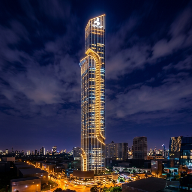
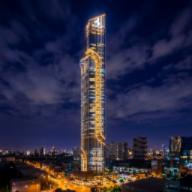
Add files via upload

diff --git a/index.html b/index.html
@@ -1,8 +1,9 @@
-<html lang="ar" dir="rtl"><head>
+<html lang="ar" dir="rtl">
+<head>
     <meta charset="UTF-8">
-    <meta name="viewport" content="width=device-width, initial-scale=0.3">
-    <title>  الشاملة</title>
-    <link href="https://fonts.googleapis.com/css2?family=Cairo:wght@400;600;800&amp;display=swap" rel="stylesheet">
+    <meta name="viewport" content="width=device-width, initial-scale=0.2">
+    <title>.</title>
+    <link href="https://fonts.googleapis.com/css2?family=Cairo:wght@400;600;800&display=swap" rel="stylesheet">
     <style>
         :root {
             --primary: #6c5ce7;
@@ -23,6 +24,7 @@
             --numerology: #9b59b6; 
             --ascendant: #f1c40f; 
             --name-color: #e67e22; 
+            --chart-box: #1abc9c;
         }
 
         body {
@@ -249,7 +251,7 @@
             margin: 0;
             font-size: 1.05em;
             color: #ecf0f1;
-            white-space: pre-line; /* عشان يتعرف على السطور الجديدة في الشرح المكثف */
+            white-space: pre-line;
         }
 
         .pros { border-color: var(--success); }
@@ -259,6 +261,7 @@
         .numerology-box { border-color: var(--numerology); background: rgba(155, 89, 182, 0.05); }
         .ascendant-box { border-color: var(--ascendant); background: rgba(241, 196, 15, 0.05); }
         .name-box { border-color: var(--name-color); background: rgba(230, 126, 34, 0.05); }
+        .chart-box { border-color: var(--chart-box); background: rgba(26, 188, 156, 0.05); }
         .love { border-color: var(--love); }
         .work { border-color: var(--work); }
         .compat-box { border-color: var(--compat); background: rgba(0, 184, 148, 0.05); }
@@ -266,39 +269,73 @@
         .celebs-box { border-color: var(--celebs); background: rgba(232, 67, 147, 0.05); }
         .advice-box { border-color: var(--advice); background: rgba(9, 132, 227, 0.05); }
 
+        /* ستايل العجلة الفلكية المبسطة */
+        .astrology-wheel-container {
+            display: flex;
+            justify-content: center;
+            align-items: center;
+            margin: 20px 0;
+            padding: 20px;
+            background: rgba(0,0,0,0.5);
+            border-radius: 50%;
+            width: 300px;
+            height: 300px;
+            margin-left: auto;
+            margin-right: auto;
+            border: 4px solid var(--accent);
+            position: relative;
+            box-shadow: 0 0 20px rgba(253, 203, 110, 0.3);
+        }
+
+        .wheel-center {
+            position: absolute;
+            width: 100px;
+            height: 100px;
+            background: rgba(255,255,255,0.1);
+            border-radius: 50%;
+            border: 2px dashed #b2bec3;
+            display: flex;
+            justify-content: center;
+            align-items: center;
+            font-size: 0.8em;
+            text-align: center;
+            color: #fff;
+        }
+
+        .planet-marker {
+            position: absolute;
+            font-size: 1.5em;
+            font-weight: bold;
+            background: rgba(0,0,0,0.7);
+            padding: 5px 10px;
+            border-radius: 10px;
+            border: 1px solid;
+            transition: all 0.5s ease;
+            z-index: 10;
+        }
+
+        .sun-marker { color: #f1c40f; border-color: #f1c40f; }
+        .moon-marker { color: #74b9ff; border-color: #74b9ff; }
+        .asc-marker { color: #e74c3c; border-color: #e74c3c; font-size: 1em; }
+
         @media (max-width: 600px) {
             .form-row { flex-direction: column; gap: 0; }
             .tabs { flex-direction: column; }
+            .astrology-wheel-container { width: 250px; height: 250px; }
         }
     </style>
 
-    <link rel="manifest" href="./manifest.json">
-    <meta name="theme-color" content="#051a14">
-    <link rel="apple-touch-icon" href="./icon-192.png">
+    <meta http-equiv="Cache-Control" content="no-cache, no-store, must-revalidate">
+    <meta http-equiv="Pragma" content="no-cache">
+    <meta http-equiv="Expires" content="0">
+    <link rel="manifest" href="./manifest.json?v=v1785047711247">
+    <meta name="theme-color" content="#632484">
+    <link rel="apple-touch-icon" href="./icon-192.png?v=v1785047711247">
     <script>
       if ('serviceWorker' in navigator) {
         window.addEventListener('load', () => {
-          navigator.serviceWorker.register('./sw.js?v=2826323981783690094062')
-            .then(reg => {
-              console.log('SW Registered');
-              reg.update();
-            })
-            .catch(err => console.log('SW Failed', err));
-        });
-      }
-    </script>
-
-    <link rel="manifest" href="./manifest.json">
-    <meta name="theme-color" content="#000000">
-    <link rel="apple-touch-icon" href="./icon-192.png">
-    <script>
-      if ('serviceWorker' in navigator) {
-        window.addEventListener('load', () => {
-          navigator.serviceWorker.register('./sw.js?v=8825606461784250173281')
-            .then(reg => {
-              console.log('SW Registered');
-              reg.update();
-            })
+          navigator.serviceWorker.register('./sw.js?v=v1785047711247')
+            .then(reg => console.log('SW Registered'))
             .catch(err => console.log('SW Failed', err));
         });
       }
@@ -308,7 +345,7 @@
 
     <div class="container">
         <h1>✨FOR FUN الخريطة الفلكية الشاملة ✨</h1>
-        <div class="subtitle">دليلك الكامل لمعرفة أسرار وشخصيات الأبراج شامل الطالع، علم الأرقام، وتحليل طاقة الاسم بدقة متناهية</div>
+        <div class="subtitle">دليلك الكامل لمعرفة أسرار وشخصيات الأبراج شامل الطالع، الخريطة الدائرية، وعلم الأرقام بدقة متناهية</div>
         
         <div class="tabs">
             <button class="tab-btn active" onclick="switchTab('personal')">حاسبة الأبراج الشخصية</button>
@@ -338,7 +375,7 @@
                     <input type="text" id="birthdate" placeholder="مثال: 25/08/1995" dir="ltr" style="text-align: right;" required="">
                 </div>
                 <div class="form-group">
-                    <label for="birthtime">ساعة الولادة <span class="optional-badge">مهمة لحساب الطالع</span></label>
+                    <label for="birthtime">ساعة الولادة <span class="optional-badge">مهمة لحساب الطالع والخريطة</span></label>
                     <input type="text" id="birthtime" placeholder="مثال: 14:30" dir="ltr" style="text-align: right;" title="عشان نحسب الطالع بدقة لازم تكتب الساعة">
                 </div>
             </div>
@@ -410,6 +447,45 @@
                 <div class="badges-container">
                     <div class="badge" id="zElement"></div>
                     <div class="badge" id="zPlanet"></div>
+                </div>
+            </div>
+
+            <!-- شكل الخريطة الدائرية والشرح المفصل (جديد) -->
+            <div class="info-box chart-box" id="visualChartBox">
+                <h3>🌌 رسم خريطتك الفلكية (أماكن الكواكب):</h3>
+                <p>الدايرة دي بتوضح أماكن أهم 3 نقط في شخصيتك (الشمس، القمر، والطالع) وقت ولادتك بالظبط:</p>
+                
+                <div class="astrology-wheel-container" id="wheelContainer">
+                    <div class="wheel-center">خريطة<br>السماء</div>
+                    <div id="sunMarker" class="planet-marker sun-marker" title="البرج الشمسي">☀</div>
+                    <div id="moonMarker" class="planet-marker moon-marker" title="البرج القمري">🌙</div>
+                    <div id="ascMarker" class="planet-marker asc-marker" title="الطالع">🌅</div>
+                </div>
+                
+                <div style="margin-top: 15px; padding-top: 15px; border-top: 1px dashed rgba(255,255,255,0.2);">
+                    <strong style="color: var(--accent); font-size: 1.2em;">إزاي تقرأ الخريطة اللي في الصورة؟ (شرح مبسط جداً)</strong><br><br>
+                    بص يا سيدي، الخريطة الفلكية اللي بتشوفها عبارة عن دايرة مليانة رموز زي الصورة بالظبط، دي ببساطة "سكرين شوت" لشكل السما وقت وتاريخ ومكان ولادتك بالمللي. تعال افصصهالك بالعامية عشان تبقى خبير:<br><br>
+                    
+                    <strong>1. الدايرة الكبيرة (البيوت الفلكية 🏠):</strong><br>
+                    الدايرة متقسمة لـ 12 حتة زي حتت البيتزا، كل حتة اسمها "بيت". كل بيت بيمثل جانب في حياتك (البيت الـ 1: شخصيتك ومظهرك، البيت الـ 2: فلوسك، البيت الـ 4: عيلتك، البيت الـ 7: الجواز والشراكة، البيت الـ 10: شغلك وسمعتك). الكوكب اللي بيقع في بيت معين بيدي طاقته للجانب ده من حياتك.<br><br>
+
+                    <strong>2. الرموز اللي جوه الدايرة (الكواكب 🪐):</strong><br>
+                    دي الممثلين اللي بيلعبوا أدوار جوه دماغك:<br>
+                    • ☀ <strong>الشمس:</strong> دي هويتك الأساسية وغرورك (برجك العادي).<br>
+                    • 🌙 <strong>القمر:</strong> ده مشاعرك، رد فعلك الداخلي، وإزاي بتحب وتزعل.<br>
+                    • 🌅 <strong>الطالع (AC):</strong> ده الماسك اللي بتلبسه للناس، وانطباعهم الأول عنك.<br>
+                    • ♀ <strong>الزهرة (Venus):</strong> ده كوكب الحب، الجمال، والفلوس، بيحدد إنت بتحب إزاي وذوقك إيه.<br>
+                    • ♂ <strong>المريخ (Mars):</strong> ده كوكب الأكشن، الغضب، والطاقة، بيحدد إزاي بتاخد حقك وتتخانق.<br>
+                    • ☿ <strong>عطارد (Mercury):</strong> ده كوكب العقل، التواصل، وإزاي بتفكر وتتكلم.<br>
+                    • ♃ <strong>المشتري (Jupiter):</strong> كوكب الحظ والتفاؤل والتوسع.<br>
+                    • ♄ <strong>زحل (Saturn):</strong> كوكب الكارما، الدروس القاسية، والمسؤولية.<br><br>
+
+                    <strong>3. الخطوط الحمرا والزرقا في النص (الاتصالات 🔗):</strong><br>
+                    شايف الشبكة اللي في نص الدايرة؟ دي عبارة عن زوايا هندسية بين الكواكب وبعضها (بتكلموا بعض إزاي):<br>
+                    • <strong>الخطوط الزرقا أو الخضرا 🔵:</strong> دي "اتصالات إيجابية" (تثليث أو تسديس). معناها إن الكوكبين دول متصالحين وبيدعموا بعض، يعني حظ حلو ومواهب فطرية عندك.<br>
+                    • <strong>الخطوط الحمرا 🔴:</strong> دي "اتصالات صعبة" (تربيع أو مقابلة). معناها إن في خناقة بين الكوكبين دول، ودي بتمثل التحديات، العقد النفسية، أو الصعوبات اللي محتاج تبذل مجهود عشان تتخطاها في حياتك وتطور من نفسك.<br><br>
+                    
+                    <em>الخلاصة:</em> إنت مش مجرد برجك الشمسي (أنا حمل أو أنا ثور)، إنت ميكس من كل الكواكب دي في بيوت مختلفة، وعشان كده مستحيل تلاقي اتنين برج الحمل أو الثور متطابقين 100%!
                 </div>
             </div>
             
@@ -571,7 +647,7 @@
             "البقرة": "برجك الصيني البقرة 🐮: إنت شخص يعتمد عليه بجد، إنت المعنى الحقيقي للثبات والقوة. صبور لأبعد الحدود، مجتهد في شغلك بشكل يفوق طاقة البشر، ومبتهربش أبداً من المسؤولية مهما كانت تقيلة. الناس بتثق فيك لأنك مبتخونش ومبتلفش وتدور. عيبك القاتل إنك عنيد جداً، ولما بتاخد قرار مستحيل ترجع فيه حتى لو عرفت إنه غلط. كمان مبتحبش التغيير المفاجئ وبتحب الروتين اللي بيحسسك بالأمان. في العاطفة، إنت مخلص جداً وعلاقاتك بتدوم لسنين طويلة لأنك بتبنيها على أساس متين.",
             "النمر": "برجك الصيني النمر 🐯: إنت شخص شجاع، مغامر، واثق في نفسك جداً لدرجة ممكن توصل للغرور أحياناً. بتحب التحديات ومبتخافش من المواجهة حتى لو قدام مين. روحك قيادية بالفطرة، والناس بتنجذب لشخصيتك المتمردة والقوية. لكن من الناحية التانية، إنت ممكن تكون متهور جداً وبتاخد ريسك كبير في الفلوس والمشاعر من غير ما تفكر في العواقب. بتكره القيود ومبتحبش حد يقولك تعمل إيه. في الحب، إنت شغوف جداً وعلاقاتك دايماً مليانة أكشن وإثارة، بس بتزهق لو العلاقة بقت مملة.",
             "الأرنب": "برجك الصيني الأرنب 🐰: إنت شخص لطيف، دبلوماسي، وذوقك عالي جداً في كل حاجة بتختارها. بتهرب من المشاكل والصوت العالي والمواجهات، وبتحب تعيش في سلام وهدوء. الناس بترتاحلك جداً لأنك مستمع جيد، حنون، ومبتجرحش حد بكلامك. عندك قدرة تفاوض عبقرية بتخليك توصل للي إنت عايزه بالسياسة والهدوء مش بالخناق. عيبك إنك ممكن تكون متشائم أحياناً أو بتهرب من مسؤولياتك لو حسيت بضغط نفسي. في الحب، إنت رومانسي جداً وبتحتاج شريك يحسسك بالأمان والدلع طول الوقت.",
-            "التنين": "برجك الصيني التنين 🐉: إنت شخص مليان طاقة وحيوية متخلصش! كاريزما طاغية، محظوظ بطبعك، وطموحك ملوش أي سقف. بتحب دايماً تكون في القمة ومحط أنظار الجميع، ومبتقبلش بدور التابع أو الموظف العادي. عندك ثقة بالنفس بتخليك تحقق المستحيل، بس أحياناً بتكون ديكتاتور في رأيك ومبتسمعش نصيحة حد. إنت كريم جداً ومبتتأخرش عن مساعدة اللي حواليك، بس بتطلب منهم ولاء تام في المقابل. في العاطفة، إنت بتدور على شريك قوي يفتخر بيك وتفتخر بيه، وعلاقاتك دايماً استثنائية.",
+            "التنين": "برجك الصيني التنين 🐉: إنت شخص مليان طاقة وحيوية متخلصش! كاريزما طاغية، محظوظ بطبعك، وطموحك ملوش أي سقف. بتحب دايماً تكون في القمة ومحط أنظار الجميع، ومبتقبلش بدور التابع أو الموظف العادي. عندك ثقة بالنفس بتخليك تحقيق المستحيل، بس أحياناً بتكون ديكتاتور في رأيك ومبتسمعش نصيحة حد. إنت كريم جداً ومبتتأخرش عن مساعدة اللي حواليك، بس بتطلب منهم ولاء تام في المقابل. في العاطفة، إنت بتدور على شريك قوي يفتخر بيك وتفتخر بيه، وعلاقاتك دايماً استثنائية.",
             "الثعبان": "برجك الصيني الثعبان 🐍: إنت شخص حكيم، غامض، وذكي جداً لدرجة الدهاء. عندك حاسة سادسة بتخليك تحس بالأمور قبل ما تحصل وتقرأ نوايا اللي حواليك بسهولة. مبتحبش الثرثرة والكلام الكتير، وبتخطط لخطواتك في هدوء وصمت تام لحد ما توصل لهدفك وتفاجئ الكل. بتحب الرفاهية والجمال والفلوس بالنسبة لك وسيلة للعيشة المرتاحة. عيبك إنك شكاك جداً وغيور وتملكي لأبعد الحدود. في الحب، إنت جذاب جداً وساحر، بس لما بترتبط بحد بتقفل عليه ومش بتسمح لأي حد يقرب منه.",
             "الحصان": "برجك الصيني الحصان 🐴: إنت شخص نشيط، حر، ومبتحبش القيود نهائياً كأنك حصان بري منطلق. اجتماعي جداً، روحك خفيفة، وبتعرف تعمل صحاب في أي مكان تروحه بسرعة البرق. عقلك شغال دايماً وعندك أفكار مبتكرة، بس مشكلتك الأكبر إنك بتمل بسرعة رهيبة وبتحتاج تغير روتين حياتك وأهدافك دايماً، وده بيخليك تسيب مشاريع كتير في النص من غير ما تكملها. إنت صريح جداً ومبتعرفش تخبي مشاعرك. في الحب، إنت بتندفع بكل مشاعرك في البداية، بس ممكن تطفش لو حسيت إن الشريك بيخنقك.",
             "العنزة": "برجك الصيني العنزة 🐐: إنت شخص فنان بطبعك، رقيق، عاطفي، وحساس لأقصى درجة. بتحب الجمال، الطبيعة، الهدوء، وبتتجنب الصراعات والمنافسة الشرسة اللي في سوق العمل. عندك خيال واسع ومبدع في أي حاجة بتعملها بإيدك. لكن أحياناً بتحتاج حد يزقك ويدعمك نفسياً ومادياً عشان تطلع أحسن ما عندك، لأنك بتشك في قدراتك كتير. عيبك إنك ممكن تكون اعتمادي على غيرك أو مزاجي جداً ومكتئب بدون أسباب واضحة. في الحب، إنت بتحتاج حنان ورعاية مفرطة، وبترد ده بحب وإخلاص ملهمش مثيل.",
@@ -893,6 +969,28 @@
             return signsList[ascendantIndex];
         }
 
+        // الدالة المسئولة عن رسم الكواكب على العجلة الفلكية المبسطة
+        function placePlanetOnWheel(markerId, signName) {
+            const signsList = ["الحمل", "الثور", "الجوزاء", "السرطان", "الأسد", "العذراء", "الميزان", "العقرب", "القوس", "الجدي", "الدلو", "الحوت"];
+            const index = signsList.indexOf(signName);
+            if (index === -1) return;
+
+            // حساب الزاوية (كل برج بياخد 30 درجة من الدايرة ال 360)
+            // الحمل بيبدأ من اليمين (0 درجة) ويلف عكس عقارب الساعة زيه زي الخريطة الحقيقية
+            const angle = -(index * 30); 
+            const radius = 110; // المسافة من المركز
+
+            const rad = angle * (Math.PI / 180);
+            const x = Math.cos(rad) * radius;
+            const y = Math.sin(rad) * radius;
+
+            const marker = document.getElementById(markerId);
+            if(marker) {
+                // نظبط المكان بناءً على المركز
+                marker.style.transform = `translate(${x}px, ${y}px)`;
+            }
+        }
+
         function renderZodiacData(sign, gender, isPersonal, moonSign = null, chineseSign = null, lifePath = null, ascendantSign = null, isTimeProvided = false, userName = null, nameNumber = null, userCountry = null, userCity = null) {
             const data = zodiacData[sign];
             const resultDiv = document.getElementById("result");
@@ -926,6 +1024,20 @@
             document.getElementById("zPros").innerText = data.pros;
             document.getElementById("zCons").innerText = data.cons;
             document.getElementById("zAdvice").innerText = data.advice;
+
+            // إظهار أو إخفاء قسم الخريطة الدائرية
+            const visualChartBox = document.getElementById("visualChartBox");
+            if (isPersonal && isTimeProvided && ascendantSign && moonSign) {
+                visualChartBox.style.display = "block";
+                // رسم الأماكن على العجلة
+                setTimeout(() => {
+                    placePlanetOnWheel("sunMarker", sign);
+                    placePlanetOnWheel("moonMarker", moonSign);
+                    placePlanetOnWheel("ascMarker", ascendantSign);
+                }, 100);
+            } else {
+                visualChartBox.style.display = "none";
+            }
 
             // قسم الطالع
             const ascendantBox = document.getElementById("ascendantBox");
@@ -1056,4 +1168,5 @@
         }
     </script>
 
-</body></html>
+</body>
+</html>

diff --git a/sw.js b/sw.js
@@ -1,5 +1,5 @@
-const CACHE_NAME = 'pwa-cache-8825606461784250173281';
-const urlsToCache = [ './', './index.html', './offline.html', './icon-192.png', './icon-512.png', './manifest.json' ];
+const CACHE_NAME = 'pwa-cache-v1785047711247';
+const urlsToCache = [ './', './index.html?v=v1785047711247', './offline.html?v=v1785047711247', './icon-192.png?v=v1785047711247', './icon-512.png?v=v1785047711247', './manifest.json?v=v1785047711247' ];
 
 self.addEventListener('install', event => {
   event.waitUntil(
@@ -24,25 +24,14 @@ self.addEventListener('activate', event => {
 });
 
 self.addEventListener('fetch', event => {
-  if (event.request.mode === 'navigate') {
-    event.respondWith(
-      fetch(event.request)
-        .then(networkResponse => {
-          return caches.open(CACHE_NAME).then(cache => {
-            cache.put(event.request, networkResponse.clone());
-            return networkResponse;
-          });
-        })
-        .catch(() => {
-          return caches.match(event.request) || caches.match('./index.html') || caches.match('./offline.html');
-        })
-    );
-  } else {
-    event.respondWith(
-      caches.match(event.request)
-        .then(response => {
-          return response || fetch(event.request);
-        })
-    );
-  }
+  event.respondWith(
+    caches.match(event.request)
+      .then(response => {
+        return response || fetch(event.request).catch(() => {
+          if (event.request.mode === 'navigate') {
+            return caches.match('./offline.html?v=v1785047711247');
+          }
+        });
+      })
+  );
 });

diff --git a/offline.html b/offline.html
@@ -5,9 +5,9 @@
     <meta name="viewport" content="width=device-width, initial-scale=1.0">
     <title>لا يوجد اتصال بالإنترنت</title>
     <style>
-        body { margin: 0; display: flex; flex-direction: column; align-items: center; justify-content: center; height: 100vh; font-family: system-ui, sans-serif; text-align: center; background-color: #000000; color: white; }
+        body { margin: 0; display: flex; flex-direction: column; align-items: center; justify-content: center; height: 100vh; font-family: system-ui, sans-serif; text-align: center; background-color: #632484; color: white; }
         .icon { font-size: 4rem; margin-bottom: 20px; }
-        button { margin-top: 30px; padding: 12px 24px; font-size: 1rem; cursor: pointer; border: none; border-radius: 8px; background-color: white; color: #000000; font-weight: bold; box-shadow: 0 4px 6px rgba(0,0,0,0.1); }
+        button { margin-top: 30px; padding: 12px 24px; font-size: 1rem; cursor: pointer; border: none; border-radius: 8px; background-color: white; color: #632484; font-weight: bold; box-shadow: 0 4px 6px rgba(0,0,0,0.1); }
     </style>
 </head>
 <body>
